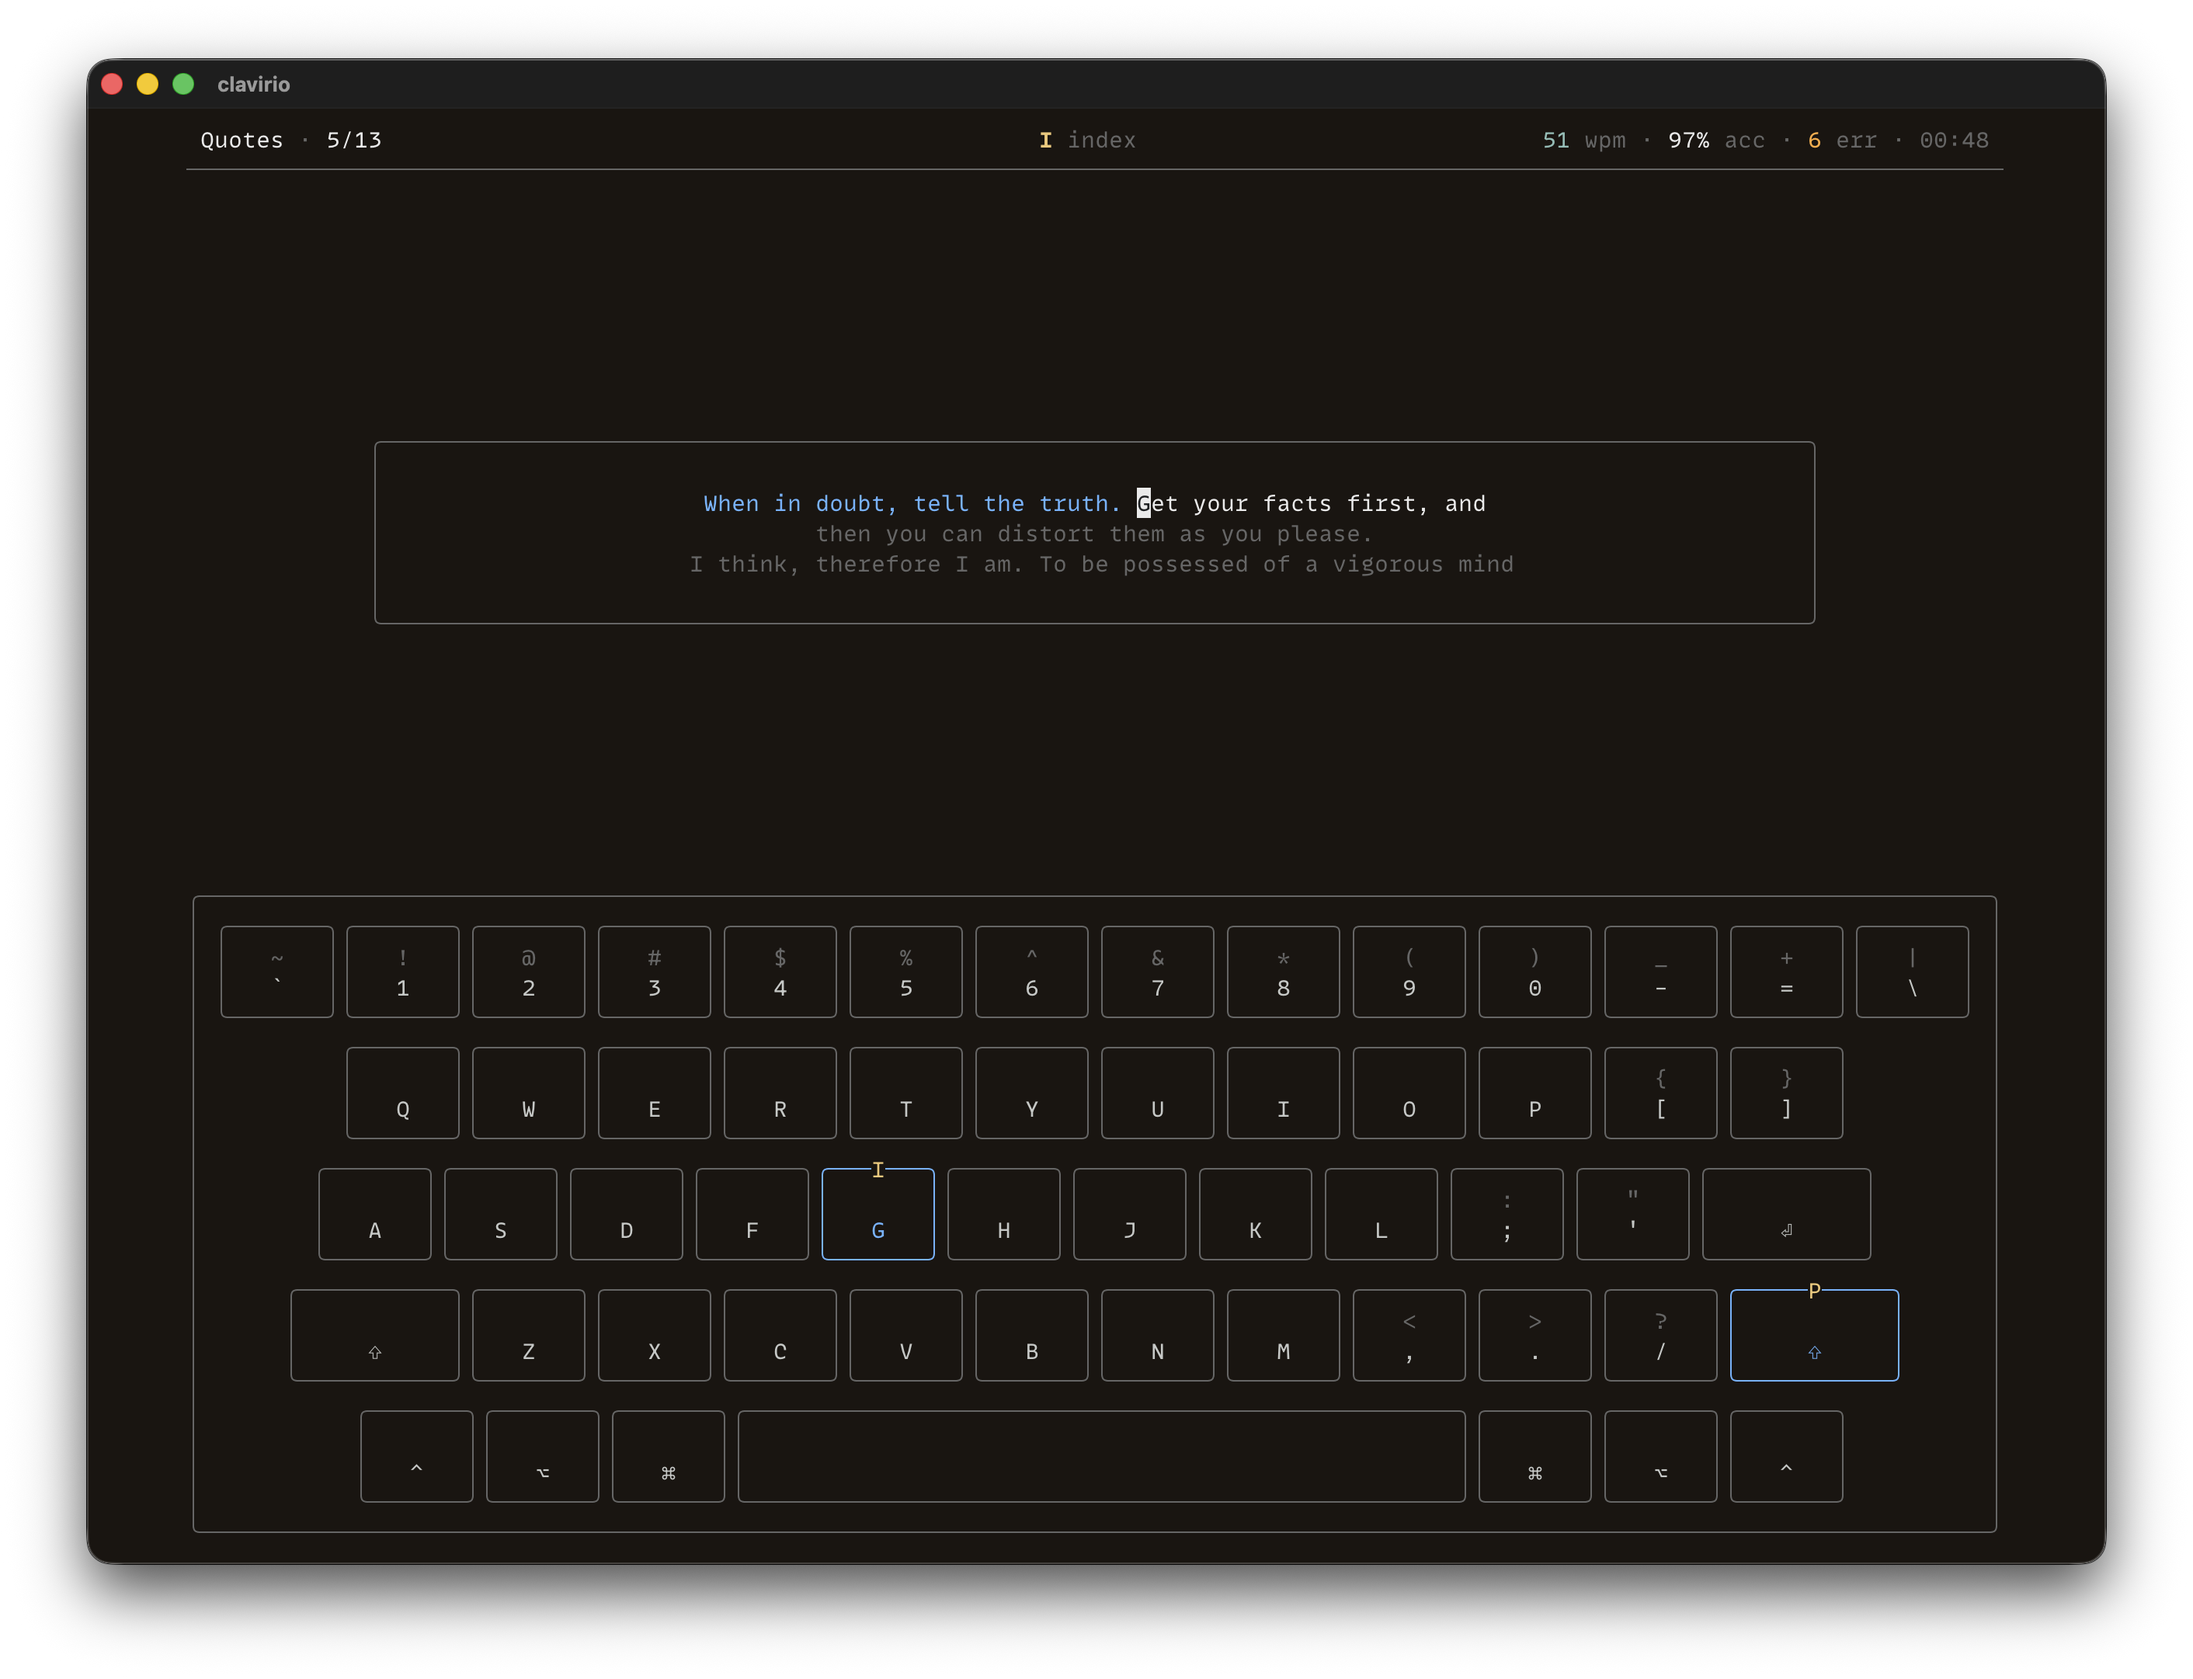
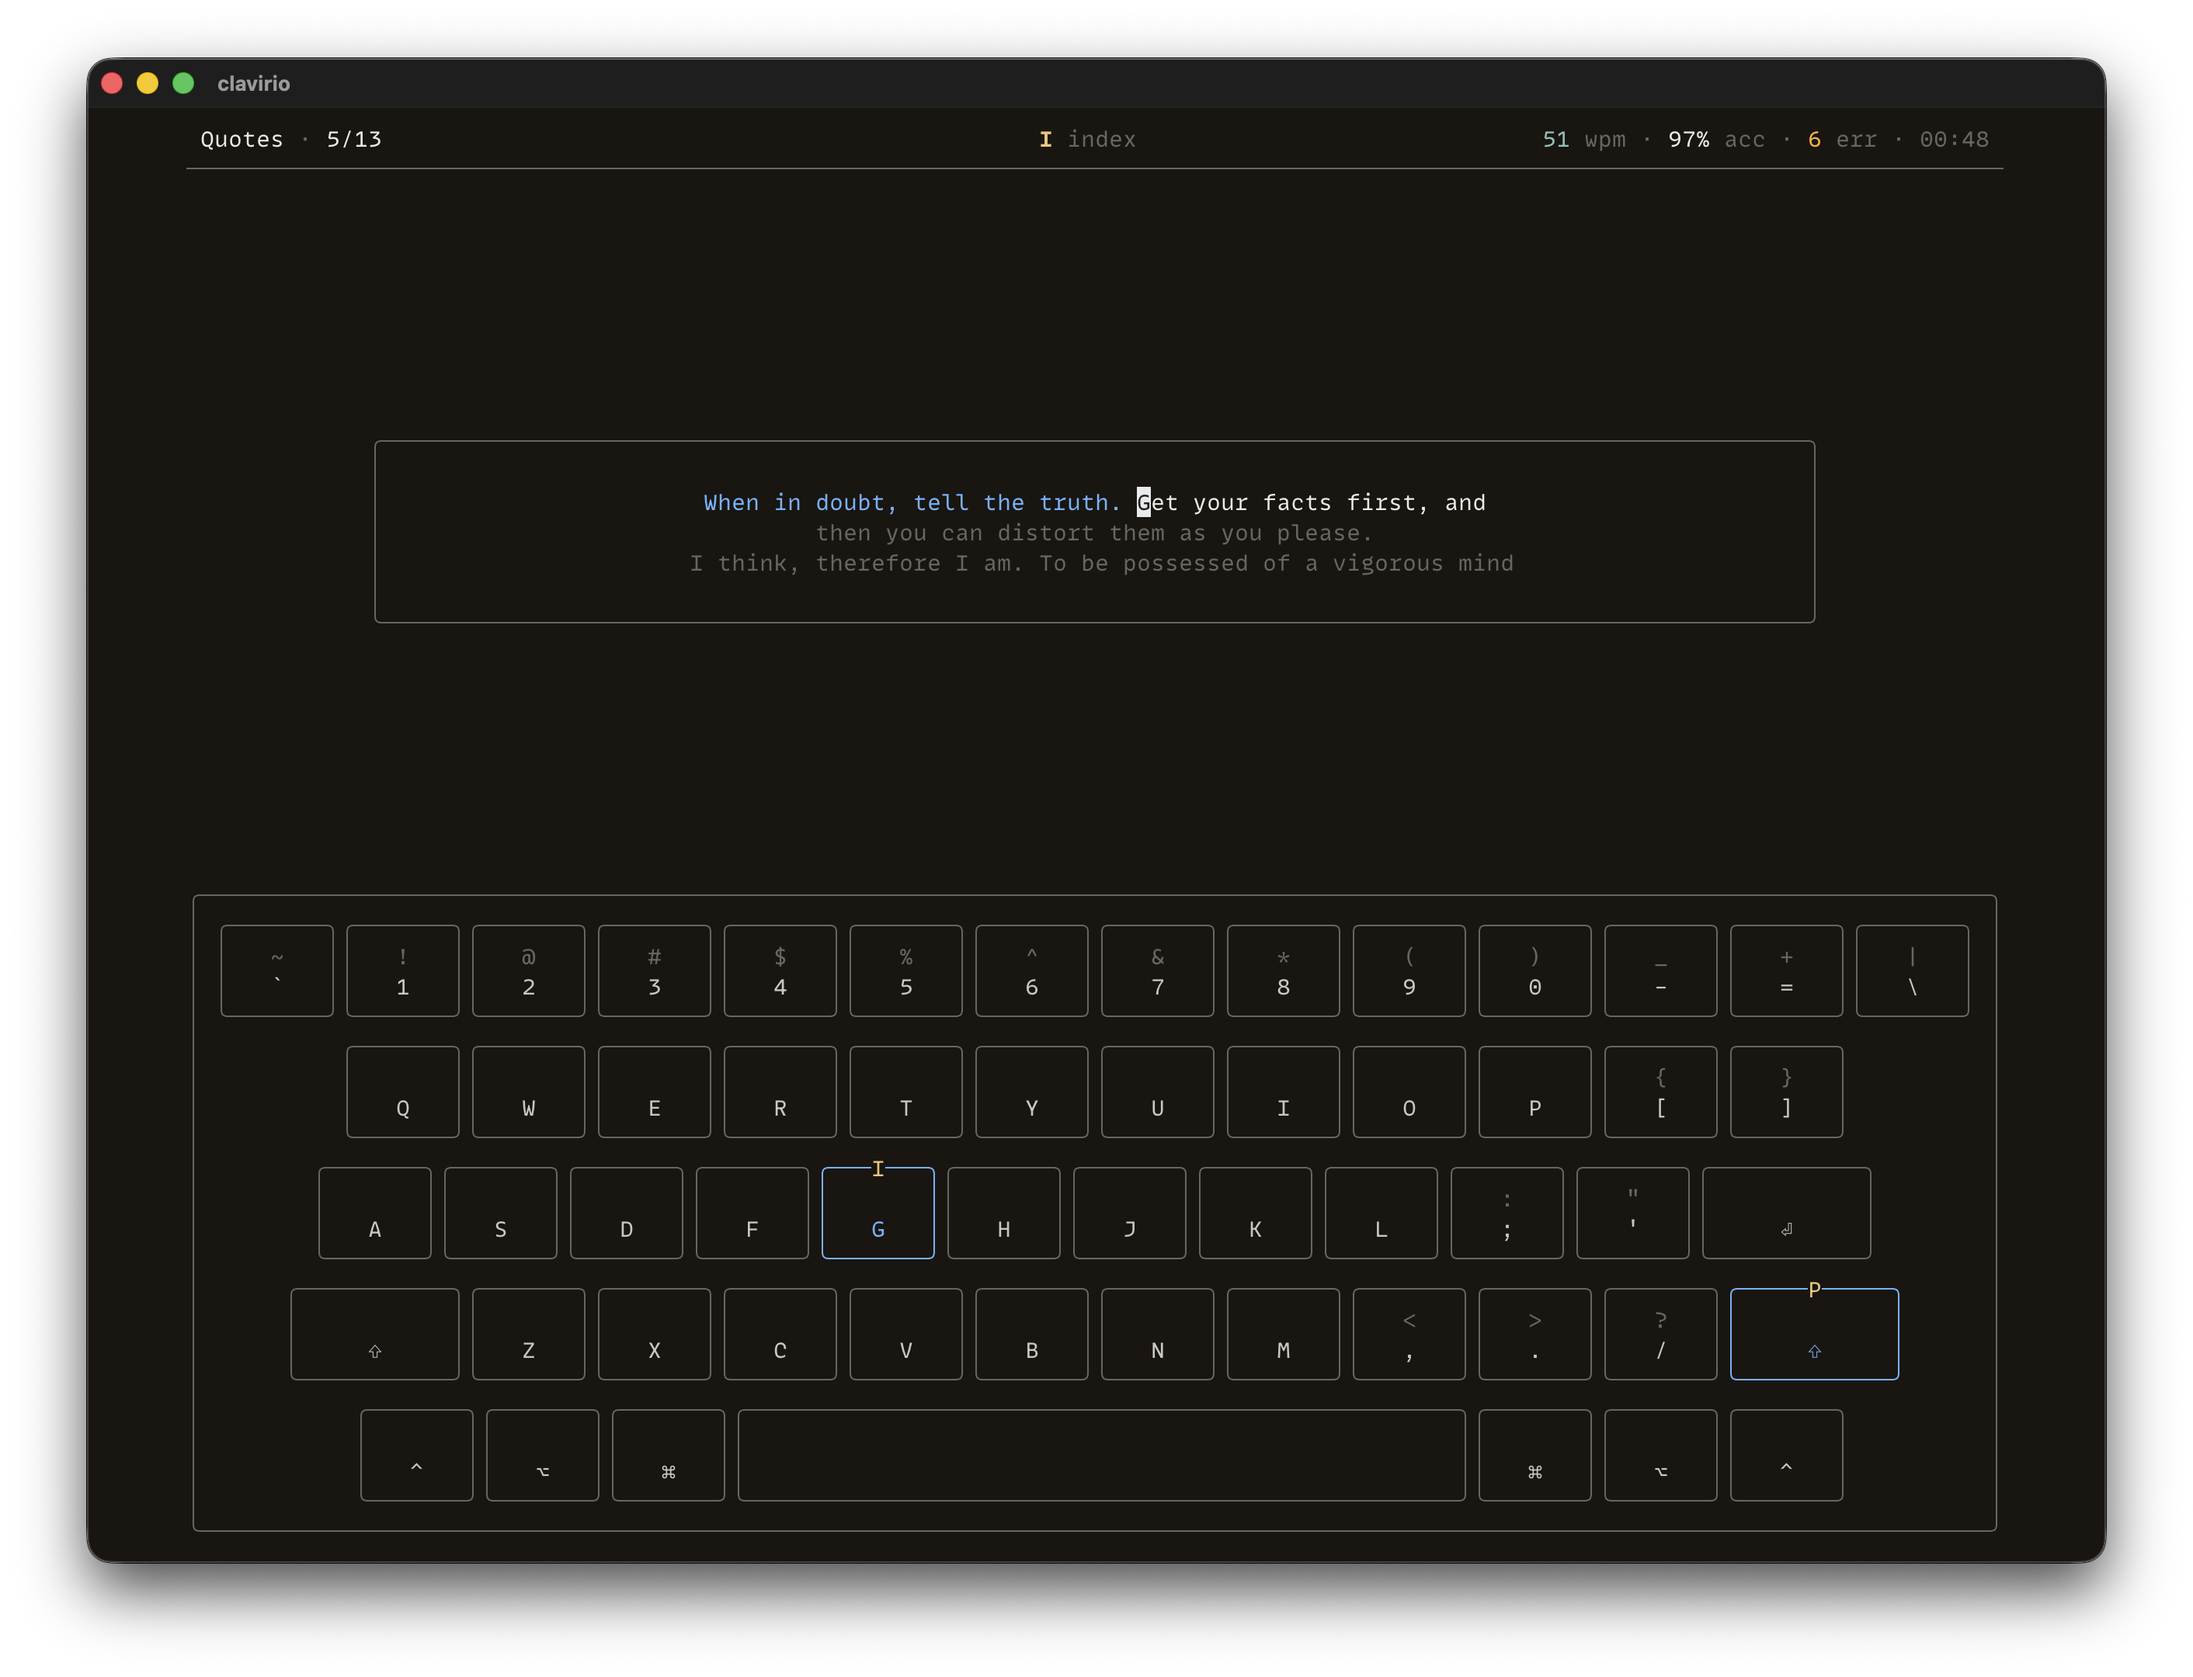
Make the screenshots and a GIF of the demo fit the Snap Store

diff --git a/assets/screenshots.py b/assets/screenshots.py
@@ -8,13 +8,16 @@ Run from the repository root on macOS, after `cargo build --release`:
 It opens the same Ghostty window as assets/demo.py, with a fresh home folder,
 and takes four screenshots: a Quotes practice halfway through, its results, the
 lesson menu, and the practice menu in the light theme. Each is saved in
-assets/images as a PNG with the window's shadow and as a WebP. It takes about 3
+assets/images as a PNG and as a WebP, with the window's shadow. The PNG, for
+the Snap Store, which doesn't take WebP, loses the shadow's faint outer rows to
+fit the store's 2160 pixel height. It takes about 3
 minutes, during which the Mac shouldn't be used. It needs what assets/demo.py
 needs, and cwebp.
 """
 
 import json
 import re
+import struct
 import subprocess
 import sys
 import tempfile
@@ -28,6 +31,7 @@ import demo  # noqa: E402
 IMAGES = Path("assets/images")
 WEBP_QUALITY = 85
 SETTLE = 1
+SNAP_STORE_HEIGHT = 2160
 
 # An earlier Quotes session, slower than the one typed here, so the results
 # show "New best!"
@@ -91,7 +95,17 @@ def shot(window_id, name):
     subprocess.run(["screencapture", "-x", f"-l{window_id}", str(png)], check=True)
     subprocess.run(["cwebp", "-quiet", "-q", str(WEBP_QUALITY), str(png),
                     "-o", str(png.with_suffix(".webp"))], check=True)
+    fit_snap_store(png)
     print(f"Took {png}")
+
+
+def fit_snap_store(png):
+    """Trims the shadow's outer rows, which are almost transparent, top and
+    bottom, until the PNG is no higher than the Snap Store allows"""
+    width, height = struct.unpack(">II", png.read_bytes()[16:24])
+    if height > SNAP_STORE_HEIGHT:
+        subprocess.run(["sips", "--cropToHeightWidth", str(SNAP_STORE_HEIGHT), str(width), str(png)],
+                       check=True, capture_output=True)
 
 
 def press(key, times=1):
